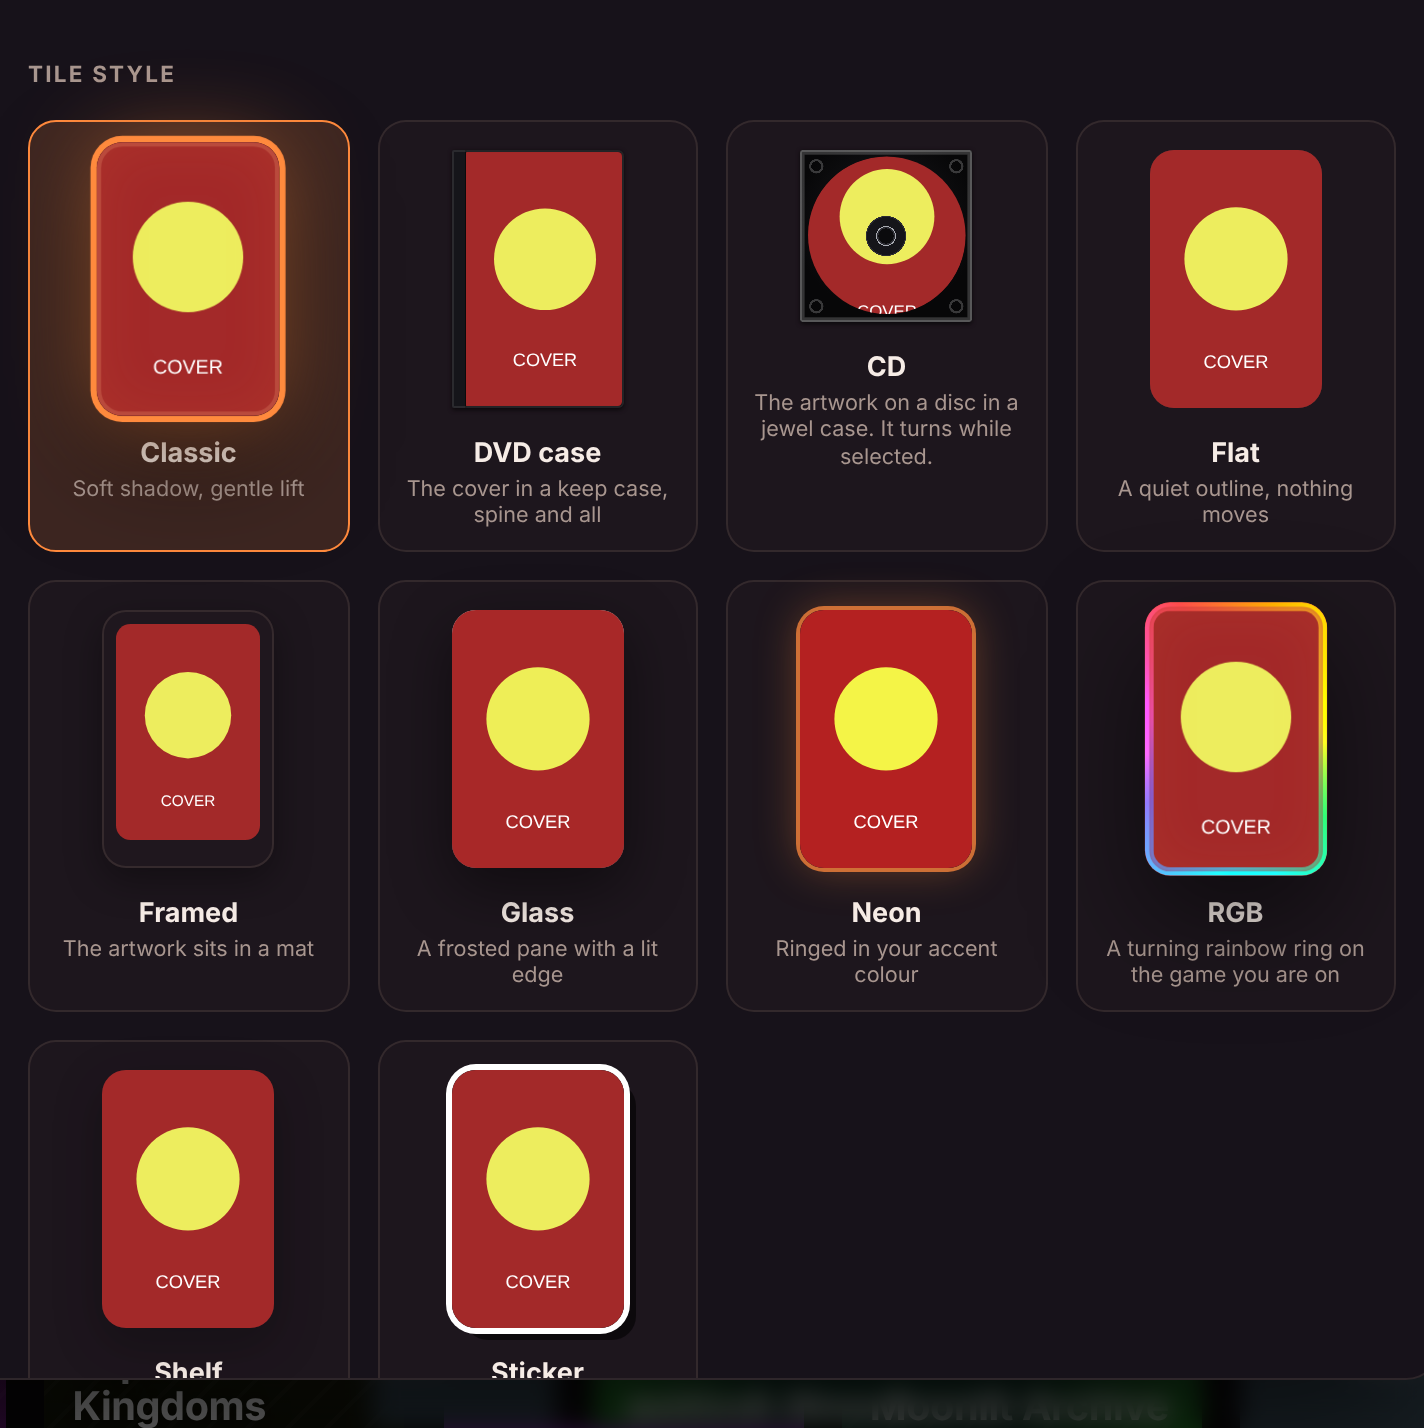
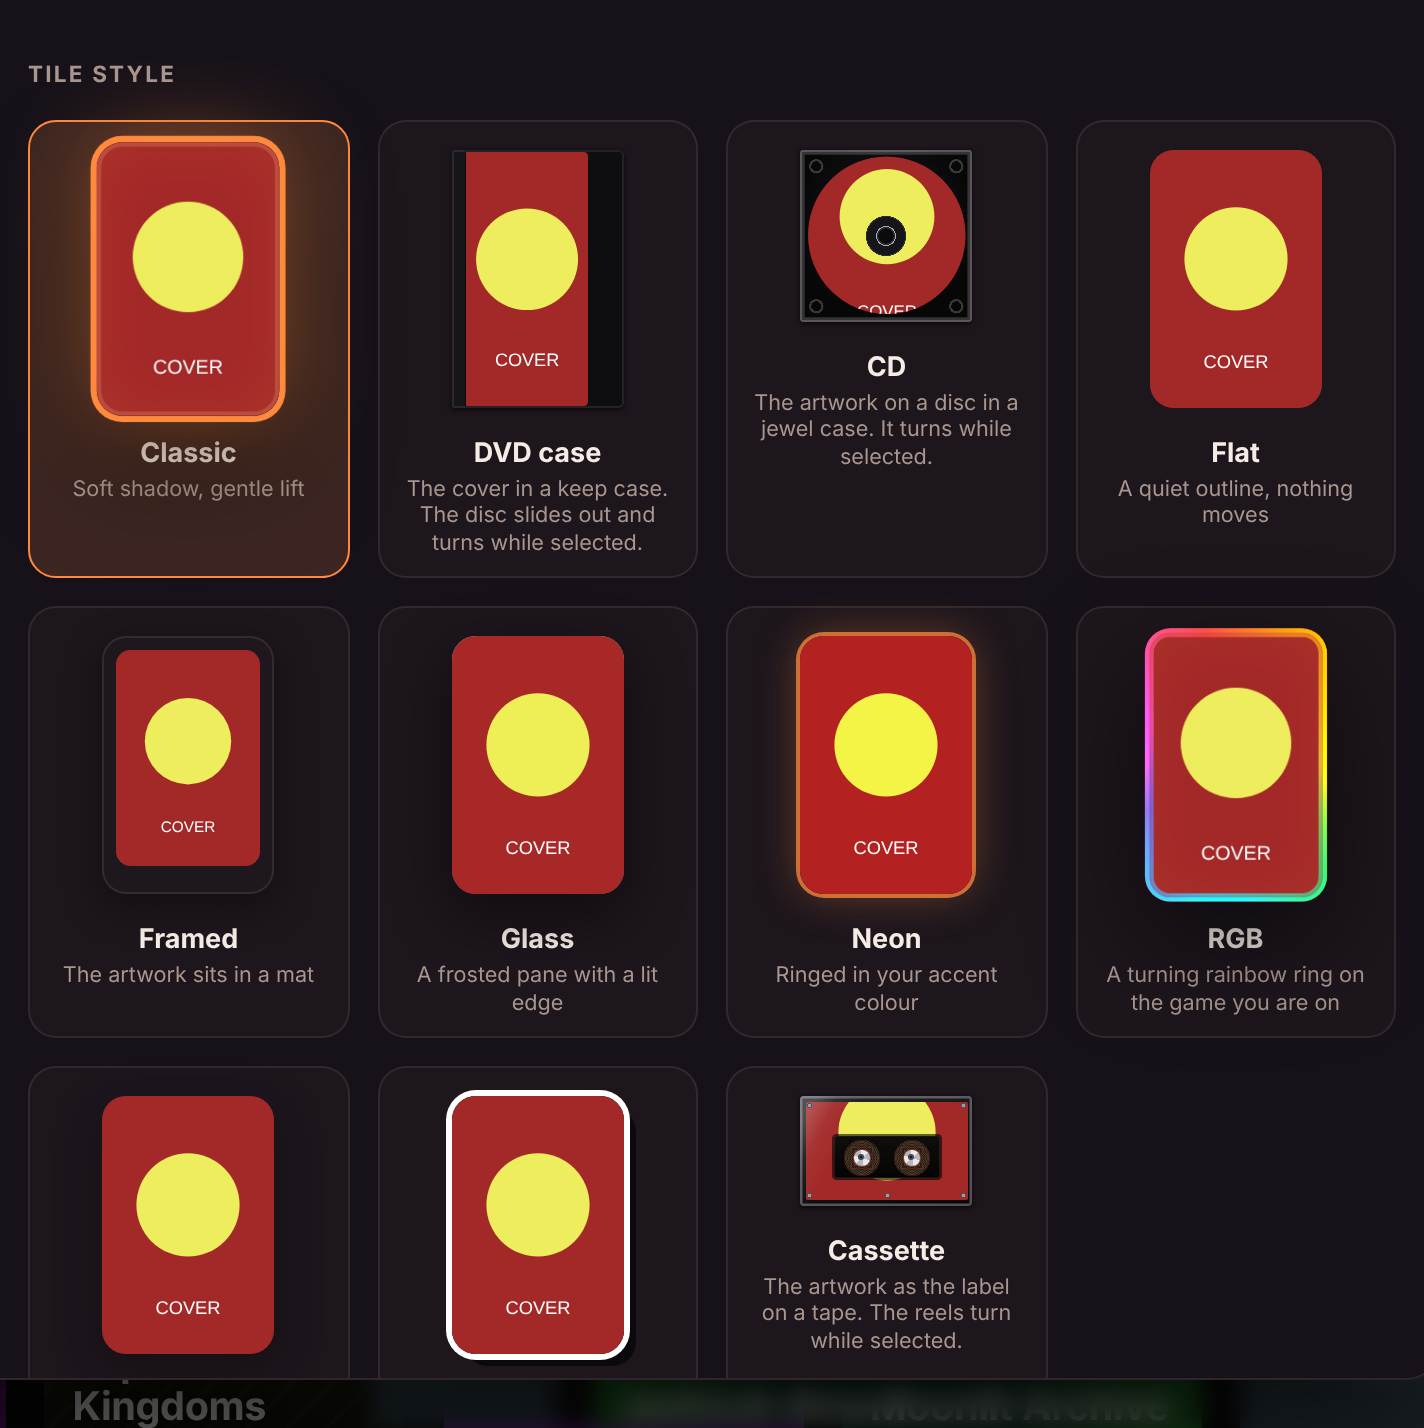
Slide a spinning disc out of the DVD case, and add the Cassette style
The DVD case now keeps a strip clear on the right. The disc sits behind
the cover, slides out into that strip on the game you are on, turns
while it is out and slides back when you move away.

Cassette is a new tile style: the artwork is the label on a tape, the
shell has its five screws and its moulded ridge, and the two reels of
wound tape turn in the window while the tile is the one you are on.
Both hold still under reduced motion.

Claude-Session: https://claude.ai/code/session_01NPREu7PjezkjuwmBCquEU3

diff --git a/src/styles/app.css b/src/styles/app.css
@@ -997,7 +997,7 @@ body.no-cursor, body.no-cursor * { cursor: none !important; }
    grid and a banner across a television get the same case rather than the same number of pixels:
    that is the lesson the Photo style taught. Everything stays inside .art, which keeps clipping,
    so nothing of either case can paint over the tile next door. */
-.card.cs-dvd, .card.cs-cd { container-type: inline-size; }
+.card.cs-dvd, .card.cs-cd, .card.cs-tape { container-type: inline-size; }
 
 /* The keep case: black plastic all round, a wider band down the left for the spine, and the
    hinge line beside it. The right corners are rounder than the left, as the real thing is. */
@@ -1007,11 +1007,33 @@ body.no-cursor, body.no-cursor * { cursor: none !important; }
   box-shadow: 0 1cqw 2.6cqw rgba(0,0,0,.6), inset 0 0 0 1px rgb(255 255 255 / .09);
 }
 .card.cs-dvd .art > img:not(.badge-icon), .card.cs-dvd .art > .fallback, .card.cs-dvd .art > .wide-shade {
-  top: 1.1cqw; left: 9cqw; right: 1.1cqw; bottom: 1.1cqw;
-  width: calc(100% - 10.1cqw); height: calc(100% - 2.2cqw);
+  top: 1.1cqw; left: 9cqw; right: 21cqw; bottom: 1.1cqw;
+  width: calc(100% - 30cqw); height: calc(100% - 2.2cqw);
   border-radius: .5cqw 2.4cqw 2.4cqw .5cqw;
 }
+/* The disc inside the case. It sits behind the cover, slides out into the strip on the right when
+   the tile is the one you are on, and turns while it is out. Sliding is done on `right` and not on
+   a transform, so that the transform is free to carry nothing but the turn. */
+.card.cs-dvd .dvd-disc {
+  position: absolute; z-index: 0; pointer-events: none;
+  width: 48cqw; aspect-ratio: 1; border-radius: 50%;
+  top: 50%; right: -50cqw; margin-top: -24cqw;
+  transition: right .38s cubic-bezier(.2,.7,.3,1);
+  background:
+    radial-gradient(circle at 50% 50%,
+      #0e0e12 0 11%, #43454c 11% 13%, #c9ccd4 13% 16%, #1b1c21 16% 21%, #0000 21.5%),
+    conic-gradient(from 0deg,
+      #3a3d45, #8d93a1, #4b4f58, #a7adbb, #44474f, #9299a8, #3a3d45);
+  box-shadow: inset 0 0 0 1px rgb(255 255 255 / .22), 0 .6cqw 1.6cqw rgba(0,0,0,.6);
+}
+.card.cs-dvd.focused .dvd-disc, .card.cs-dvd:hover .dvd-disc {
+  right: 1.2cqw;
+  animation: discspin 6s linear infinite !important;
+}
+html[data-motion="reduce"] .card.cs-dvd .dvd-disc { animation: none !important; transition: none; }
 .card.cs-dvd .art::before, .card.cs-dvd .art::after { border-radius: inherit; }
+.card.cs-dvd .art > .fallback { padding: 0 9%; text-align: center; overflow: hidden; }
+.card.cs-dvd .art > .fallback .fb-title { font-size: clamp(10px, calc(var(--card, 180px) * .062), 18px); }
 .card.cs-dvd:hover .art { transform: translateY(-.5cqw) scale(1.02); }
 .card.cs-dvd.focused .art { box-shadow: 0 0 0 .5cqw var(--accent), 0 1.6cqw 3.2cqw rgba(0,0,0,.7), 0 0 3cqw var(--glow); }
 
@@ -1077,6 +1099,77 @@ html[data-motion="reduce"] .card.cs-cd .art > img:not(.badge-icon),
 html[data-motion="reduce"] .card.cs-cd .art > .fallback { animation: none !important; }
 
 .card.cs-dvd .case-gloss { border-radius: 1.2cqw 3.4cqw 3.4cqw 1.2cqw; }
+
+/* The cassette. A tape is wider than it is tall whatever shape the tile is, so like the CD this
+   style sets its own aspect. The artwork is the label across the whole face, the window is cut
+   into it, and the two reels turn in the window while the tile is the one you are on. */
+.card.cs-tape .art {
+  aspect-ratio: 1.58;
+  background: linear-gradient(160deg, #26262c, #101014 60%, #08080a);
+  border-radius: 2cqw;
+  box-shadow: 0 1cqw 2.4cqw rgba(0,0,0,.6), inset 0 0 0 1px rgb(255 255 255 / .16);
+}
+.card.cs-tape .art > img:not(.badge-icon), .card.cs-tape .art > .fallback, .card.cs-tape .art > .wide-shade {
+  top: 3cqw; left: 3cqw; right: 3cqw; bottom: 3cqw;
+  width: calc(100% - 6cqw); height: calc(100% - 6cqw);
+  border-radius: 1cqw; object-fit: cover;
+}
+/* A game with no artwork puts its name on the label, which here means above the window. */
+.card.cs-tape .art > .fallback { align-items: flex-start; justify-content: center; padding: 4% 14% 0; text-align: center; overflow: hidden; }
+.card.cs-tape .art > .fallback .fb-title {
+  font-size: clamp(9px, calc(var(--card, 180px) * .05), 15px); line-height: 1.15;
+  /* only the strip above the window is label, so a long name is cut there rather than run under it */
+  display: -webkit-box; -webkit-line-clamp: 1; -webkit-box-orient: vertical; overflow: hidden;
+}
+
+/* The window in the shell: dark inside, with the lit edge the moulding has. */
+.card.cs-tape .tape-win {
+  position: absolute; z-index: 2; pointer-events: none;
+  left: 19cqw; right: 19cqw; top: 23cqw; height: 25cqw;
+  border-radius: 1.4cqw;
+  background: linear-gradient(180deg, #100e0c, #050404);
+  box-shadow: inset 0 0 0 .5cqw rgb(255 255 255 / .1), inset 0 .4cqw 1cqw rgba(0,0,0,.8), 0 0 0 1px rgb(0 0 0 / .6);
+}
+/* A reel: wound tape in rings, then the white hub with its teeth. */
+.card.cs-tape .tape-reel {
+  position: absolute; z-index: 3; pointer-events: none;
+  width: 21cqw; aspect-ratio: 1; top: 25cqw; border-radius: 50%;
+  background:
+    repeating-radial-gradient(circle at 50% 50%, #4a3425 0 1.2%, #2b1e15 1.2% 2.4%),   /* the tape, wound */
+    radial-gradient(circle at 42% 36%, #6b4c35, #30221a 72%, #1a120d);
+}
+/* The white hub, in wedges so that the turn is plain to see even on a small tile. */
+.card.cs-tape .tape-reel::before {
+  content: ''; position: absolute; inset: 29%; border-radius: 50%;
+  background: repeating-conic-gradient(from -12deg, #e9eaed 0 16.66%, #b4b8c0 16.66% 33.33%);
+  box-shadow: 0 0 0 .35cqw #d94436, 0 0 .6cqw rgba(0,0,0,.6);
+}
+/* The spindle hole in the middle of the hub. */
+.card.cs-tape .tape-reel::after {
+  content: ''; position: absolute; inset: 41%; border-radius: 50%;
+  background: #0b0b0d; box-shadow: inset 0 0 0 1px rgb(255 255 255 / .25);
+}
+.card.cs-tape .tr-l { left: 25cqw; }
+.card.cs-tape .tr-r { right: 25cqw; }
+.card.cs-tape.focused .tape-reel, .card.cs-tape:hover .tape-reel {
+  animation: discspin 4.5s linear infinite !important;
+}
+html[data-motion="reduce"] .card.cs-tape .tape-reel { animation: none !important; }
+/* The shell over it all: the five screws, the two spindle guides and the ridge round the edge. */
+.card.cs-tape .tape-shell {
+  position: absolute; z-index: 4; inset: 0; pointer-events: none; border-radius: inherit;
+  --screw: radial-gradient(circle at 50% 50%, #9aa0ab 0 36%, #4c5059 36% 52%, #0000 54%);
+  background:
+    var(--screw) left 3.2cqw top 3.2cqw / 4cqw 4cqw no-repeat,
+    var(--screw) right 3.2cqw top 3.2cqw / 4cqw 4cqw no-repeat,
+    var(--screw) left 3.2cqw bottom 3.2cqw / 4cqw 4cqw no-repeat,
+    var(--screw) right 3.2cqw bottom 3.2cqw / 4cqw 4cqw no-repeat,
+    var(--screw) center bottom 3.2cqw / 4cqw 4cqw no-repeat,
+    linear-gradient(118deg, rgb(255 255 255 / .2) 0 7%, rgb(255 255 255 / .05) 17%, #0000 30%);
+  box-shadow: inset 0 0 0 1.6cqw rgb(255 255 255 / .05), inset 0 0 0 1.7cqw rgb(255 255 255 / .12);
+}
+.card.cs-tape:hover .art { transform: translateY(-.5cqw) scale(1.02); }
+.card.cs-tape.focused .art { box-shadow: 0 0 0 .5cqw var(--accent), 0 1.6cqw 3.2cqw rgba(0,0,0,.7), 0 0 3cqw var(--glow); }
 
 .card.cs-sticker .art { box-shadow: 0 0 0 3px var(--sticker-edge, #fff), 6px 6px 0 rgba(0,0,0,.55); }
 .card.cs-sticker:hover .art { transform: translate(-2px, -2px); box-shadow: 0 0 0 3px var(--sticker-edge, #fff), 9px 9px 0 rgba(0,0,0,.6); }

diff --git a/src/views/BigScreen.tsx b/src/views/BigScreen.tsx
@@ -757,12 +757,14 @@ function WideTile({ g, focused, badge, onClick }: { g: Game; focused: boolean; b
       <div className="art">
         {settings?.cardStyle === 'rgb' && <i className="rgb-ring" aria-hidden />}
         {settings?.cardStyle === 'rgb' && <i className="rgb-halo" aria-hidden />}
+        {settings?.cardStyle === 'dvd' && <i className="dvd-disc" aria-hidden />}
         {img ? <img src={img} alt="" loading="lazy" decoding="async" draggable={false} className={`in ${pick.cover ? 'blurred' : ''}`} onError={() => setIdx((i) => i + 1)} /> : <FallbackArt g={g} wide bare />}
         <div className="wide-shade" />
         {pick?.cover && <img className="wide-cover" src={img} alt="" draggable={false} />}
         {a.logo ? <img className="wide-logo" src={a.logo} alt="" draggable={false} onError={(e) => (e.currentTarget.style.display = 'none')} /> : null}
         <span className={`wide-title ${a.logo ? 'has-logo' : ''}`}>{titleOf(g)}</span>
         {settings?.cardStyle === 'cd' && <><i className="disc-hub" aria-hidden /><i className="disc-tray" aria-hidden /></>}
+        {settings?.cardStyle === 'tape' && <><i className="tape-win" aria-hidden /><i className="tape-reel tr-l" aria-hidden /><i className="tape-reel tr-r" aria-hidden /><i className="tape-shell" aria-hidden /></>}
         {(settings?.cardStyle === 'dvd' || settings?.cardStyle === 'cd') && <i className="case-gloss" aria-hidden />}
         {badge && <SourceBadge source={g.source} />}
         <PadBadge g={g} />

diff --git a/src/views/Settings.tsx b/src/views/Settings.tsx
@@ -892,7 +892,7 @@ const CARD_HINT: Record<string, string> = { full: 'Pop, light sweep, drifting ar
 
 const CARD_STYLES = [
   { id: 'classic', name: 'Classic', hint: 'Soft shadow, gentle lift' },
-  { id: 'dvd', name: 'DVD case', hint: 'The cover in a keep case, spine and all' },
+  { id: 'dvd', name: 'DVD case', hint: 'The cover in a keep case. The disc slides out and turns while selected.' },
   { id: 'cd', name: 'CD', hint: 'The artwork on a disc in a jewel case. It turns while selected.' },
   { id: 'flat', name: 'Flat', hint: 'A quiet outline, nothing moves' },
   { id: 'frame', name: 'Framed', hint: 'The artwork sits in a mat' },
@@ -900,7 +900,8 @@ const CARD_STYLES = [
   { id: 'neon', name: 'Neon', hint: 'Ringed in your accent colour' },
   { id: 'rgb', name: 'RGB', hint: 'A turning rainbow ring on the game you are on' },
   { id: 'shelf', name: 'Shelf', hint: 'Standing on a surface, with a shadow under it' },
-  { id: 'sticker', name: 'Sticker', hint: 'A cut edge and a hard shadow' }
+  { id: 'sticker', name: 'Sticker', hint: 'A cut edge and a hard shadow' },
+  { id: 'tape', name: 'Cassette', hint: 'The artwork as the label on a tape. The reels turn while selected.' }
 ] as const;
 
 /** The look of a game tile, shown on real artwork from the library so the choice is honest. */

diff --git a/src/components/Cover.tsx b/src/components/Cover.tsx
@@ -90,6 +90,7 @@ export function Cover({ g, showTitle, showBadge, focused, style, onClick, onDoub
         {cardStyle === 'rgb' && <i className="rgb-ring" aria-hidden />}
         {cardStyle === 'rgb' && <i className="rgb-halo" aria-hidden />}
         {/* The jewel case is drawn over the artwork, not under it: the artwork is the disc. */}
+        {cardStyle === 'dvd' && <i className="dvd-disc" aria-hidden />}
         {src ? (
           <>
             {/* title card shows while the cover loads, or if it never does */}
@@ -101,6 +102,7 @@ export function Cover({ g, showTitle, showBadge, focused, style, onClick, onDoub
           <FallbackArt g={g} />
         )}
         {cardStyle === 'cd' && <><i className="disc-hub" aria-hidden /><i className="disc-tray" aria-hidden /></>}
+        {cardStyle === 'tape' && <><i className="tape-win" aria-hidden /><i className="tape-reel tr-l" aria-hidden /><i className="tape-reel tr-r" aria-hidden /><i className="tape-shell" aria-hidden /></>}
         {(cardStyle === 'dvd' || cardStyle === 'cd') && <i className="case-gloss" aria-hidden />}
         {showBadge && <SourceBadge source={g.source} />}
         <PadBadge g={g} />

diff --git a/shared/types.ts b/shared/types.ts
@@ -73,7 +73,7 @@ export interface Game extends ScannedGame {
 export type DesktopLayout = 'grid' | 'list' | 'shelves';
 export type SortKey = 'title' | 'recent' | 'added' | 'playtime' | 'source';
 
-export type CardStyle = 'classic' | 'cd' | 'dvd' | 'flat' | 'frame' | 'glass' | 'neon' | 'rgb' | 'shelf' | 'sticker';
+export type CardStyle = 'classic' | 'cd' | 'dvd' | 'flat' | 'frame' | 'glass' | 'neon' | 'rgb' | 'shelf' | 'sticker' | 'tape';
 /** The look of the vibes card on Home. 'hidden' leaves it out of both views. */
 /** Which mark Lumen draws for itself. All of them animate; the ones with a core light it. */
 export type LogoStyle = 'power' | 'orbit' | 'pulse' | 'reactor' | 'spark';

diff --git a/README.md b/README.md
@@ -325,7 +325,7 @@ The numbers come from Windows itself (the logical disks it reports), including r
 Settings → Library → Tile style changes the frame around every game tile, in the desktop view and in Big Screen alike. Each choice is previewed on a real game from your library.
 
 - **Classic**: soft shadow and a gentle lift, the look Lumen starts with.
-- **DVD case**: the cover in a black keep case, with the spine band down the left, the hinge line beside it and the right corners rounded the way the real thing is.
+- **DVD case**: the cover in a black keep case, with the spine band down the left, the hinge line beside it and the right corners rounded the way the real thing is. The disc slides out of the case on the game you are on and turns while it is out, and it slides back in when you move away.
 - **CD**: a square jewel case seen front on, with the artwork printed on the disc inside it. The hub, the clear band and the clamping ring sit in the middle, the case has its four moulded corner clips and a ridge round the inside, and a diagonal gloss runs over the plastic. The disc turns in a slow loop while the tile is the one you are on, and it holds still if you have asked Windows for less motion.
 - **Flat**: a quiet outline, nothing moves. Easiest on a slow PC.
 - **Framed**: the artwork sits inside a mat, like a picture in a frame.
@@ -333,9 +333,10 @@ Settings → Library → Tile style changes the frame around every game tile, in
 - **Neon**: every tile ringed in your accent colour, bright when picked.
 - **Shelf**: tiles stand on a surface with a shadow pooling under them.
 - **Sticker**: a thick cut edge and a hard offset shadow.
+- **Cassette**: the artwork becomes the label on a tape, in a shell with its five screws, the moulded ridge round the edge and a window cut into the middle. The two reels of wound tape turn in that window while the tile is the one you are on. Like the CD, a cassette is wider than it is tall, so this style sets its own shape rather than taking the tile's.
 - **RGB**: a turning rainbow ring that marks the game you are on. The other tiles stay plain, and the selected one gets the ring plus a soft glow of the same colours just inside its edge. The whole effect stays inside the picture, and its thickness is a share of the tile, so it looks the same on a small cover in the grid and on a wide banner across a TV. The ring is its own layer, so the artwork keeps its rounded corners and the ring keeps turning whatever you choose in Settings → Appearance → Animations. Reduce motion stops it, as it stops every other animation.
 
-![The DVD and CD cases in the picker](tile-styles-cases.png)
+![The cases and the cassette in the picker](tile-styles-cases.png)
 
 Tile style is about the frame. The animation when a tile is picked is separate, in Settings → Appearance → Animations.
 
